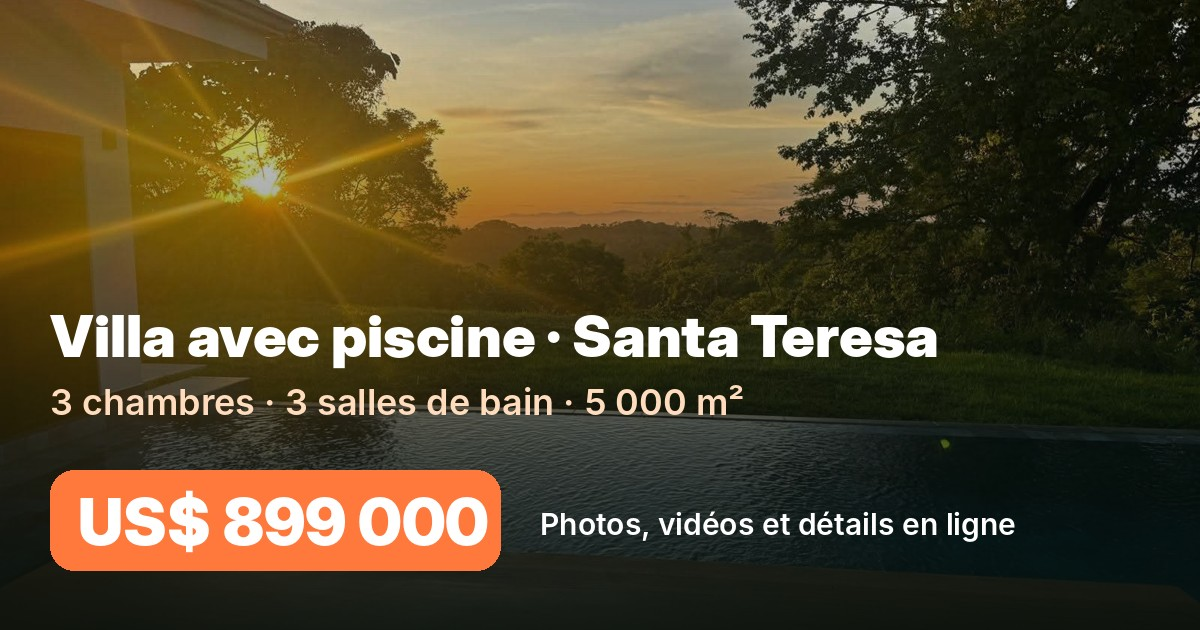
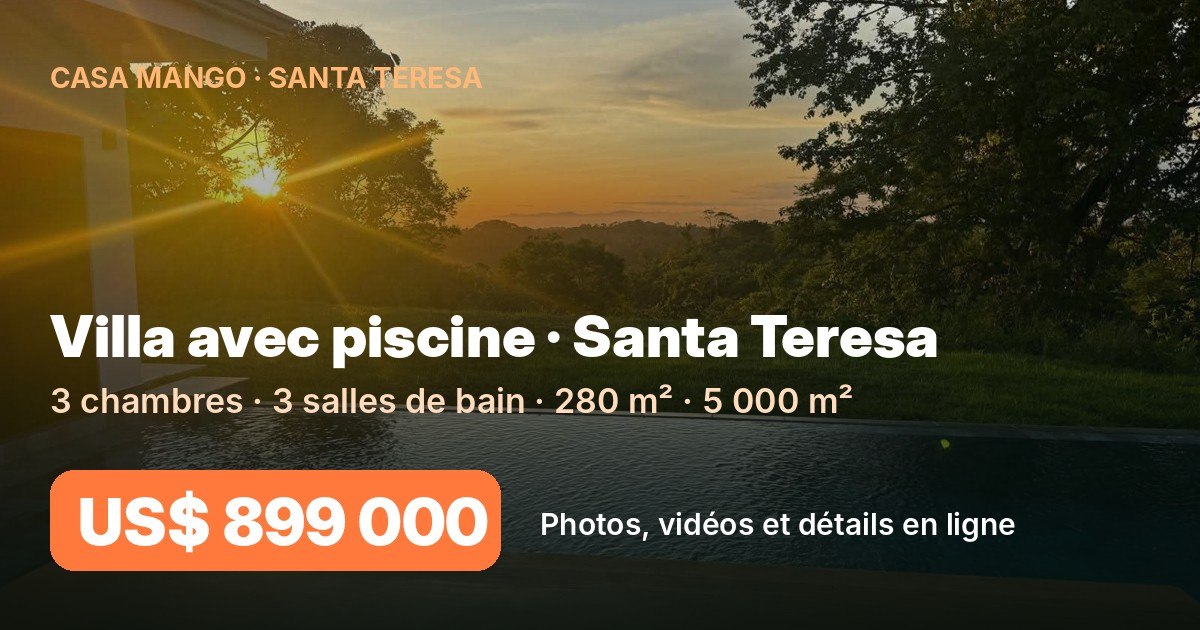
Casa Mango : nom, textes, aperçu Facebook
Claude-Session: https://claude.ai/code/session_01KhkbvdtiMAinS7Wo5i5umS

Changed region(s): [[0.0308, 0.6032, 0.7092, 0.6635], [0.0308, 0.0905, 0.4008, 0.1508]]

diff --git a/index.html b/index.html
@@ -1,4 +1,4 @@
-<!doctype html><html lang="fr"><head><meta charset="utf-8"><meta name="viewport" content="width=device-width,initial-scale=1,viewport-fit=cover"><meta property="og:title" content="Villa avec piscine près de Santa Teresa, Costa Rica – US$ 899 000"><meta property="og:description" content="3 chambres, 3 salles de bain, 280 m², piscine à débordement, 5 000 m². Le coucher de soleil tous les soirs depuis votre piscine."><meta property="og:image" content="/og.jpg"><meta property="og:type" content="website"><style>img{max-width:100%}[hidden]{display:none!important}</style><title>Villa Pura Vida Santa Teresa</title>
+<!doctype html><html lang="fr"><head><meta charset="utf-8"><meta name="viewport" content="width=device-width,initial-scale=1,viewport-fit=cover"><meta property="og:title" content="Casa Mango – Villa avec piscine près de Santa Teresa, Costa Rica – US$ 899 000"><meta property="og:description" content="3 chambres, 3 salles de bain, 280 m², piscine à débordement, 5 000 m² sous un immense manguier. Le coucher de soleil tous les soirs depuis votre piscine."><meta property="og:image" content="/og.jpg"><meta property="og:type" content="website"><meta name="description" content="Casa Mango : villa moderne avec piscine à débordement près de Santa Teresa, Costa Rica. 3 chambres, 3 salles de bain, 5 000 m². US$ 899 000."><style>img{max-width:100%}[hidden]{display:none!important}</style><title>Casa Mango Santa Teresa</title>
 
 <link rel="stylesheet" href="https://fonts.googleapis.com/css2?family=Instrument+Serif:ital@0;1&family=Bricolage+Grotesque:opsz,wght@12..96,500;12..96,800&family=Figtree:wght@400;500;600&display=swap">
 <style>
@@ -127,7 +127,7 @@ footer a{color:var(--pool)}
 </style></head><body>
 
 <header class="chap hero" id="hero"><div class="in">
- <div class="top"><span class="brand">Santa Teresa · Costa Rica</span>
+ <div class="top"><span class="brand">Casa Mango 🥭 · Santa Teresa</span>
  <div class="lang" role="group" aria-label="Language"><button data-l="fr" aria-pressed="true">FR</button><button data-l="en" aria-pressed="false">EN</button><button data-l="es" aria-pressed="false">ES</button></div></div>
  <div class="glass" style="align-self:flex-start;max-width:980px"><span class="chip" data-t="kicker"></span>
  <h1 data-t-html="title" style="margin-top:12px"></h1>
@@ -199,7 +199,7 @@ var NAT=["tamandua","aracari","fox","tayra","coati","parrot"];
 var WIDE={sunpool:1,sun1:1,ext:1,road:1,hero:1,sun2:1,sun3:1,sun4:1,sun5:1,pool1:1};
 var DAYIMG=["sun1","beach","falls","pool2","sunpool","village"];
 var TX={
-fr:{kicker:"Pura vida · à vendre",title:"Le coucher de soleil, <em>tous les soirs</em>, depuis votre piscine.",nego:"légèrement négociable",
+fr:{kicker:"Casa Mango · Cóbano · à vendre",title:"Le coucher de soleil, <em>tous les soirs</em>, depuis votre piscine.",nego:"légèrement négociable",
 lead:"Villa moderne de 280 m², 3 chambres, 3 salles de bain, piscine à débordement, sur 5 000 m² de colline à Cóbano. À quelques minutes des plages de Santa Teresa, l’un des plus beaux coins du Costa Rica.",
 ctaAsk:"Poser une question",ctaPhotos:"Voir la villa",ctaDay:"Une journée ici",
 nums:[["3","chambres"],["3","salles de bain"],["280","m² construits"],["5 000","m² de terrain"],["≈ 2 km","de Santa Teresa"],["24/7","sécurité"]],
@@ -209,9 +209,9 @@ day:[["06:00","La brume et les oiseaux","Café sur la terrasse. Les aracaris et 
 l_life:"Santa Teresa",h_life:"L’endroit <em>le plus hot</em> du Costa Rica, et le plus calme",p_life:"Santa Teresa, c’est le surf, les chevaux sur la plage, les quads sur les chemins de terre, et des couchers de soleil qui arrêtent tout le monde. La péninsule de Nicoya est aussi l’une des cinq zones bleues du monde, là où les gens vivent le plus longtemps.",
 life:[["Surf","Playa Carmen, Playa Hermosa, Mal País : des vagues pour tous les niveaux, toute l’année."],["Chevaux sur la plage","Balades à cheval au coucher du soleil, directement sur le sable."],["Quads et chemins","Le quad est le véhicule du coin : plages, collines, cascades."],["Pêche et bateau","Sorties en mer, pêche sportive, dauphins et tortues."],["Cascades","Montezuma et ses cascades, à une vingtaine de minutes."],["Cabo Blanco","La plus ancienne réserve naturelle du pays, au bout de la péninsule."],["Yoga et bien-être","Studios, retraites, shala à The Ark."],["Restos et nightlife","Cuisine du monde, beach bars, musique live."],["Zone bleue","Nicoya : l’un des cinq endroits au monde où l’on vit le plus longtemps."],["Nature chez vous","Aracaris, tamanduas, coatis, renards gris : dans votre jardin."],["Aéroport de Cóbano","À une quinzaine de minutes. Vols vers San José."],["Starlink","Internet haute vitesse pour travailler d’ici."]],
 aerial:"Des kilomètres de plages, la jungle qui descend jusqu’à la mer, et votre maison <em>sur la colline, au-dessus de tout ça.</em>",
-l_house:"La villa",h_house:"Blanche, ouverte, <em>face aux collines</em>",
+l_house:"La villa",h_house:"Casa Mango : blanche, ouverte, <em>sous le manguier</em>",
 p_house:"Maison de plain-pied de 280 m² (340 m² avec la piscine). Cuisine ouverte avec îlot et frigo en inox, salon avec canapé et table basse en bois, climatisation, grandes baies vitrées coulissantes vers la terrasse couverte et la piscine à débordement.",
-p_view:"Un immense manguier ombrage le terrain de 5 000 m². Depuis la chambre et la piscine, la vue traverse les collines jusqu’au golfe. Électricité du réseau, Starlink disponible.",
+p_view:"La maison porte le nom de l’immense manguier qui ombrage le terrain de 5 000 m² et donne des mangues délicieuses chaque saison. Depuis la chambre et la piscine, la vue traverse les collines jusqu’au golfe. Électricité du réseau, Starlink disponible.",
 feat:["3 chambres, 3 salles de bain","280 m² construits, 340 m² avec la piscine","Piscine privée à débordement","Terrasse couverte, table et bancs en bois massif","Cuisine ouverte avec îlot, frigo inox","Climatisation","Électricité du réseau, Starlink disponible","Terrain de 5 000 m² avec grand manguier","Sécurité 24 h sur 24 à l’entrée et à la sortie","Asphalte prévu devant la maison"],
 l_photos:"Galerie",h_photos:"Entrez <em>chez vous</em>",tabs:{all:"Tout",ext:"Extérieur",int:"Intérieur",pool:"Piscine",sun:"Couchers de soleil"},
 l_ark:"The Ark",h_ark:"À côté d’un village de <em>80 hectares</em>. Libre d’y entrer, ou pas.",
@@ -228,10 +228,10 @@ nat:{tamandua:"Tamandua",aracari:"Aracari",fox:"Renard gris",tayra:"Tayra",coati
 l_faq:"Questions",h_faq:"Ce que les acheteurs <em>demandent</em>",
 faq:[["Quelle est la superficie construite ?","280 m², soit 340 m² avec la piscine."],["Y a-t-il des frais de communauté ?","Non. La propriété est antérieure à The Ark et n’a aucun frais obligatoire. Vous pouvez choisir de payer les frais de The Ark pour profiter de la communauté."],["Quel type de titre de propriété ?","À confirmer. Le terrain est un lot de 5 000 m² avec plan cadastré."],["La maison est-elle meublée ?","À confirmer. Les photos montrent un canapé, une table basse, une table et des bancs en bois."],["Peut-on négocier ?","Oui, légèrement. Prix demandé : 899 000 $ US."]],
 l_contact:"Contact",h_contact:"Une question ? <em>Écrivez-nous.</em>",p_contact:"Écrivez votre message. La page le prépare et ouvre WhatsApp avec le propriétaire.",f_name:"Votre nom",f_msg:"Votre message",f_go:"Préparer mon message",
-cp:"Copier le message",copied:"Copié",wa:"Ouvrir WhatsApp",hello:"Bonjour, je suis intéressé par la villa près de Santa Teresa (Cóbano) à 899 000 $ US.",from:"Nom",
+cp:"Copier le message",copied:"Copié",wa:"Ouvrir WhatsApp",hello:"Bonjour, je suis intéressé par Casa Mango près de Santa Teresa (Cóbano) à 899 000 $ US.",from:"Nom",
 foot:"Annonce présentée par Mathieu Pilon pour le propriétaire. Prix en dollars US. Les informations sur The Ark viennent de sources publiques de la communauté et de courtiers : à confirmer avant tout achat.",
 credit:"Toutes les photos de la villa, du terrain et des animaux sont réelles et prises sur place. Les quatre images d’ambiance (plage, cascade, village, vue aérienne) sont des illustrations de la région.",srct:"Sources : "},
-en:{kicker:"Pura vida · for sale",title:"The sunset, <em>every evening</em>, from your pool.",nego:"slightly negotiable",
+en:{kicker:"Casa Mango · Cóbano · for sale",title:"The sunset, <em>every evening</em>, from your pool.",nego:"slightly negotiable",
 lead:"Modern 280 m² villa, 3 bedrooms, 3 bathrooms, infinity pool, on 5,000 m² of hillside in Cóbano. Minutes from the beaches of Santa Teresa, one of the most beautiful corners of Costa Rica.",
 ctaAsk:"Ask a question",ctaPhotos:"See the villa",ctaDay:"A day here",
 nums:[["3","bedrooms"],["3","bathrooms"],["280","m² built"],["5,000","m² lot"],["≈ 2 km","to Santa Teresa"],["24/7","security"]],
@@ -241,9 +241,9 @@ day:[["06:00","Mist and birds","Coffee on the terrace. Aracaris and parrots wake
 l_life:"Santa Teresa",h_life:"Costa Rica’s <em>hottest</em> spot, and its calmest",p_life:"Santa Teresa is surf, horses on the beach, ATVs on dirt roads, and sunsets that stop everyone in their tracks. The Nicoya Peninsula is also one of the world’s five Blue Zones, where people live the longest.",
 life:[["Surf","Playa Carmen, Playa Hermosa, Mal País: waves for every level, all year."],["Horses on the beach","Sunset horseback rides right on the sand."],["ATVs and trails","The quad is the local ride: beaches, hills, waterfalls."],["Fishing and boats","Sport fishing, dolphins and turtles offshore."],["Waterfalls","Montezuma and its falls, about twenty minutes away."],["Cabo Blanco","The country’s oldest nature reserve, at the tip of the peninsula."],["Yoga and wellness","Studios, retreats, the shala at The Ark."],["Restaurants and nightlife","World cuisine, beach bars, live music."],["Blue Zone","Nicoya: one of five places on earth where people live longest."],["Nature at home","Aracaris, tamanduas, coatis, gray foxes: in your garden."],["Cóbano airport","About fifteen minutes away. Flights to San José."],["Starlink","High-speed internet to work from here."]],
 aerial:"Miles of beaches, jungle running down to the sea, and your home <em>on the hill, above it all.</em>",
-l_house:"The villa",h_house:"White, open, <em>facing the hills</em>",
+l_house:"The villa",h_house:"Casa Mango: white, open, <em>under the mango tree</em>",
 p_house:"Single-storey home of 280 m² (340 m² with the pool). Open kitchen with island and stainless fridge, living room with a wooden sofa and coffee table, air conditioning, large sliding glass doors to the covered terrace and the infinity pool.",
-p_view:"A huge mango tree shades the 5,000 m² lot. From the bedroom and the pool, the view runs over the hills to the gulf. Grid electricity, Starlink available.",
+p_view:"The house is named after the huge mango tree that shades the 5,000 m² lot and gives delicious mangoes every season. From the bedroom and the pool, the view runs over the hills to the gulf. Grid electricity, Starlink available.",
 feat:["3 bedrooms, 3 bathrooms","280 m² built, 340 m² with the pool","Private infinity-edge pool","Covered terrace with solid-wood table and benches","Open kitchen with island, stainless fridge","Air conditioning","Grid electricity, Starlink available","5,000 m² lot with a large mango tree","24/7 security at the entrance and exit","Asphalt planned in front of the house"],
 l_photos:"Gallery",h_photos:"Step <em>inside</em>",tabs:{all:"All",ext:"Exterior",int:"Interior",pool:"Pool",sun:"Sunsets"},
 l_ark:"The Ark",h_ark:"Beside an <em>80-hectare</em> village. Join it, or don’t.",
@@ -260,10 +260,10 @@ nat:{tamandua:"Tamandua",aracari:"Aracari",fox:"Gray fox",tayra:"Tayra",coati:"C
 l_faq:"FAQ",h_faq:"What buyers <em>ask</em>",
 faq:[["What is the built area?","280 m², or 340 m² including the pool."],["Are there community fees?","No. The property predates The Ark and has no mandatory fees. You can choose to pay The Ark’s fees to enjoy the community."],["What type of title?","To be confirmed. The land is a 5,000 m² surveyed lot."],["Is it furnished?","To be confirmed. Photos show a sofa, coffee table, and a wooden table with benches."],["Is the price negotiable?","Slightly. Asking price: US$ 899,000."]],
 l_contact:"Contact",h_contact:"A question? <em>Write to us.</em>",p_contact:"Write your message. The page prepares it and opens WhatsApp with the owner.",f_name:"Your name",f_msg:"Your message",f_go:"Prepare my message",
-cp:"Copy message",copied:"Copied",wa:"Open WhatsApp",hello:"Hello, I am interested in the villa near Santa Teresa (Cóbano) listed at US$ 899,000.",from:"Name",
+cp:"Copy message",copied:"Copied",wa:"Open WhatsApp",hello:"Hello, I am interested in Casa Mango near Santa Teresa (Cóbano) listed at US$ 899,000.",from:"Name",
 foot:"Listing presented by Mathieu Pilon for the owner. Prices in US dollars. Information about The Ark comes from the community’s public pages and brokers: confirm before any purchase.",
 credit:"All photos of the villa, the land and the animals are real and were taken on site. The four mood images (beach, waterfall, village, aerial view) are illustrations of the region.",srct:"Sources: "},
-es:{kicker:"Pura vida · en venta",title:"El atardecer, <em>cada tarde</em>, desde su piscina.",nego:"ligeramente negociable",
+es:{kicker:"Casa Mango · Cóbano · en venta",title:"El atardecer, <em>cada tarde</em>, desde su piscina.",nego:"ligeramente negociable",
 lead:"Villa moderna de 280 m², 3 habitaciones, 3 baños, piscina infinita, en 5.000 m² de ladera en Cóbano. A minutos de las playas de Santa Teresa, uno de los rincones más bellos de Costa Rica.",
 ctaAsk:"Hacer una pregunta",ctaPhotos:"Ver la villa",ctaDay:"Un día aquí",
 nums:[["3","habitaciones"],["3","baños"],["280","m² construidos"],["5.000","m² de terreno"],["≈ 2 km","de Santa Teresa"],["24/7","seguridad"]],
@@ -273,9 +273,9 @@ day:[["06:00","Neblina y aves","Café en la terraza. Arasaríes y loros despiert
 l_life:"Santa Teresa",h_life:"El lugar <em>más hot</em> de Costa Rica, y el más tranquilo",p_life:"Santa Teresa es surf, caballos en la playa, cuadraciclos en caminos de tierra y atardeceres que detienen a todos. La península de Nicoya es además una de las cinco zonas azules del mundo, donde la gente vive más años.",
 life:[["Surf","Playa Carmen, Playa Hermosa, Mal País: olas para todos los niveles, todo el año."],["Caballos en la playa","Cabalgatas al atardecer, directo sobre la arena."],["Cuadraciclos","El cuadra es el vehículo local: playas, colinas, cascadas."],["Pesca y lanchas","Pesca deportiva, delfines y tortugas."],["Cascadas","Montezuma y sus cascadas, a unos veinte minutos."],["Cabo Blanco","La reserva natural más antigua del país, en la punta de la península."],["Yoga y bienestar","Estudios, retiros, el shala de The Ark."],["Restaurantes y vida nocturna","Cocina del mundo, beach bars, música en vivo."],["Zona azul","Nicoya: uno de los cinco lugares del mundo donde se vive más."],["Naturaleza en casa","Arasaríes, tamandúas, pizotes, zorros grises: en su jardín."],["Aeropuerto de Cóbano","A unos quince minutos. Vuelos a San José."],["Starlink","Internet de alta velocidad para trabajar desde aquí."]],
 aerial:"Kilómetros de playas, la selva que baja hasta el mar, y su casa <em>en la colina, por encima de todo.</em>",
-l_house:"La villa",h_house:"Blanca, abierta, <em>frente a las colinas</em>",
+l_house:"La villa",h_house:"Casa Mango: blanca, abierta, <em>bajo el árbol de mango</em>",
 p_house:"Casa de un nivel de 280 m² (340 m² con la piscina). Cocina abierta con isla y refrigerador inox, sala con sofá y mesa de centro de madera, aire acondicionado, grandes puertas corredizas hacia la terraza cubierta y la piscina infinita.",
-p_view:"Un enorme árbol de mango da sombra al terreno de 5.000 m². Desde la habitación y la piscina, la vista cruza las colinas hasta el golfo. Electricidad de la red, Starlink disponible.",
+p_view:"La casa lleva el nombre del enorme árbol de mango que da sombra al terreno de 5.000 m² y regala mangos deliciosos cada temporada. Desde la habitación y la piscina, la vista cruza las colinas hasta el golfo. Electricidad de la red, Starlink disponible.",
 feat:["3 habitaciones, 3 baños","280 m² construidos, 340 m² con la piscina","Piscina privada de borde infinito","Terraza cubierta con mesa y bancas de madera maciza","Cocina abierta con isla, refrigerador inox","Aire acondicionado","Electricidad de la red, Starlink disponible","Terreno de 5.000 m² con gran árbol de mango","Seguridad 24/7 en la entrada y la salida","Asfalto planeado frente a la casa"],
 l_photos:"Galería",h_photos:"Entre a <em>su casa</em>",tabs:{all:"Todo",ext:"Exterior",int:"Interior",pool:"Piscina",sun:"Atardeceres"},
 l_ark:"The Ark",h_ark:"Junto a un pueblo de <em>80 hectáreas</em>. Entre si quiere, o no.",
@@ -292,7 +292,7 @@ nat:{tamandua:"Tamandúa",aracari:"Arasarí",fox:"Zorro gris",tayra:"Tolomuco",c
 l_faq:"Preguntas",h_faq:"Lo que los compradores <em>preguntan</em>",
 faq:[["¿Cuál es el área de construcción?","280 m², o 340 m² con la piscina."],["¿Hay cuotas de comunidad?","No. La propiedad es anterior a The Ark y no tiene cuotas obligatorias. Puede elegir pagar las cuotas de The Ark para disfrutar la comunidad."],["¿Qué tipo de título?","Por confirmar. El terreno es un lote de 5.000 m² con plano catastrado."],["¿Está amueblada?","Por confirmar. Las fotos muestran sofá, mesa de centro, y mesa con bancas de madera."],["¿El precio es negociable?","Ligeramente. Precio: US$ 899.000."]],
 l_contact:"Contacto",h_contact:"¿Una pregunta? <em>Escríbanos.</em>",p_contact:"Escriba su mensaje. La página lo prepara y abre WhatsApp con el propietario.",f_name:"Su nombre",f_msg:"Su mensaje",f_go:"Preparar mi mensaje",
-cp:"Copiar mensaje",copied:"Copiado",wa:"Abrir WhatsApp",hello:"Hola, me interesa la villa cerca de Santa Teresa (Cóbano) a US$ 899.000.",from:"Nombre",
+cp:"Copiar mensaje",copied:"Copiado",wa:"Abrir WhatsApp",hello:"Hola, me interesa Casa Mango cerca de Santa Teresa (Cóbano) a US$ 899.000.",from:"Nombre",
 foot:"Anuncio presentado por Mathieu Pilon para el propietario. Precios en dólares de EE. UU. La información sobre The Ark viene de páginas públicas de la comunidad y corredores: confirme antes de comprar.",
 credit:"Todas las fotos de la villa, el terreno y los animales son reales y fueron tomadas en el lugar. Las cuatro imágenes de ambiente (playa, cascada, pueblo, vista aérea) son ilustraciones de la región.",srct:"Fuentes: "}};
 var SRC=[["The Ark (2CR Real Estate)","https://www.2costaricarealestate.com/posts/the-ark-santa-teresa-real-estate-in-a-regenerative-village-near-costa-rica-s-best-beaches"],["Langston Realty","https://www.langstonrealty.com/areas/the-ark-santa-teresa"],["RE.cr","https://www.re.cr/en/recent-for-sale-for-rent-properties-in-costa-rica/houses-apartments-condos/rs2600970"]];
